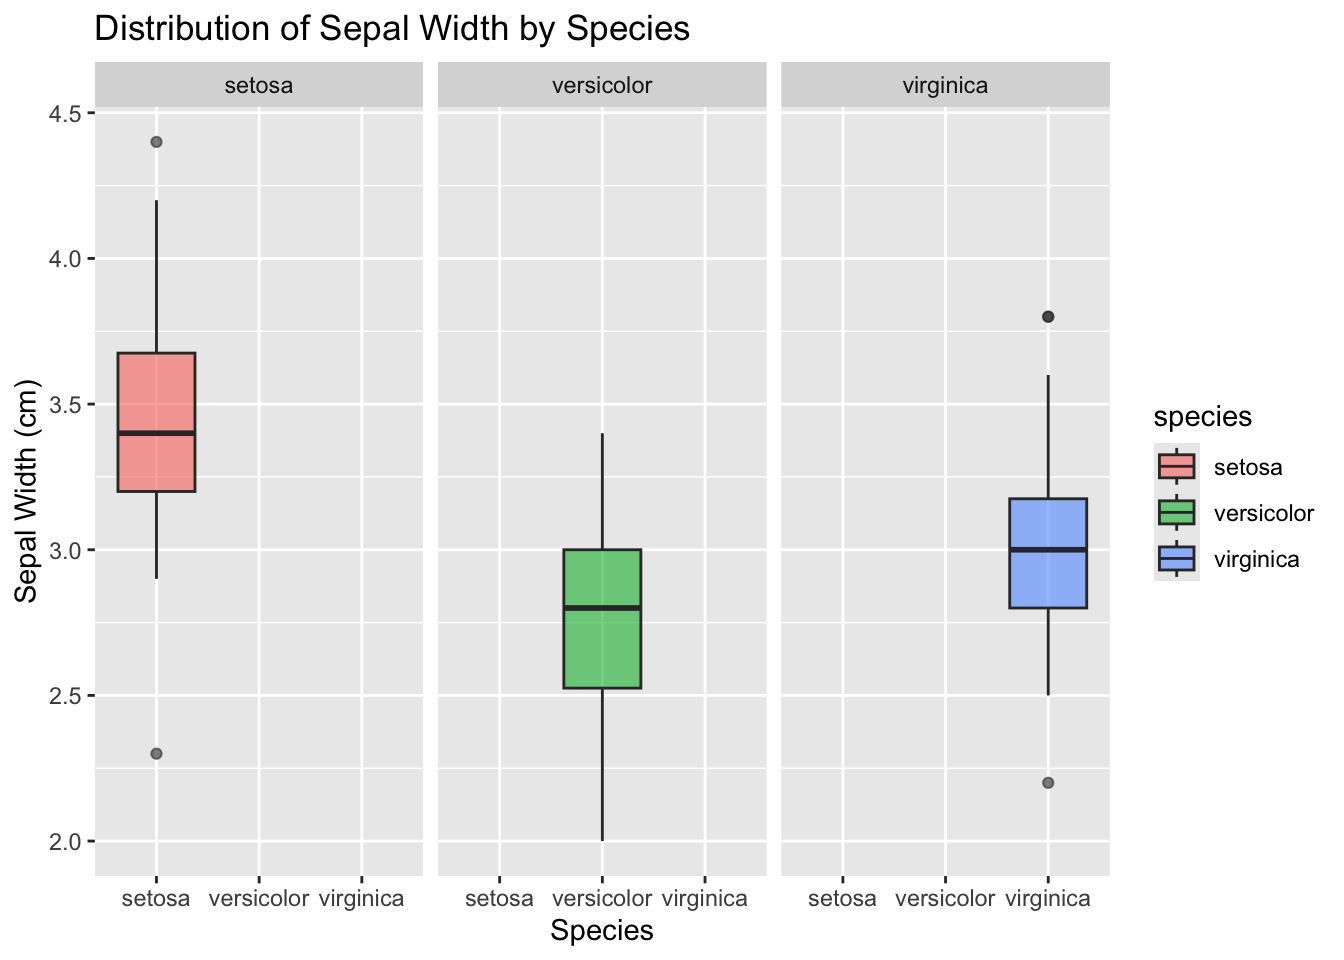
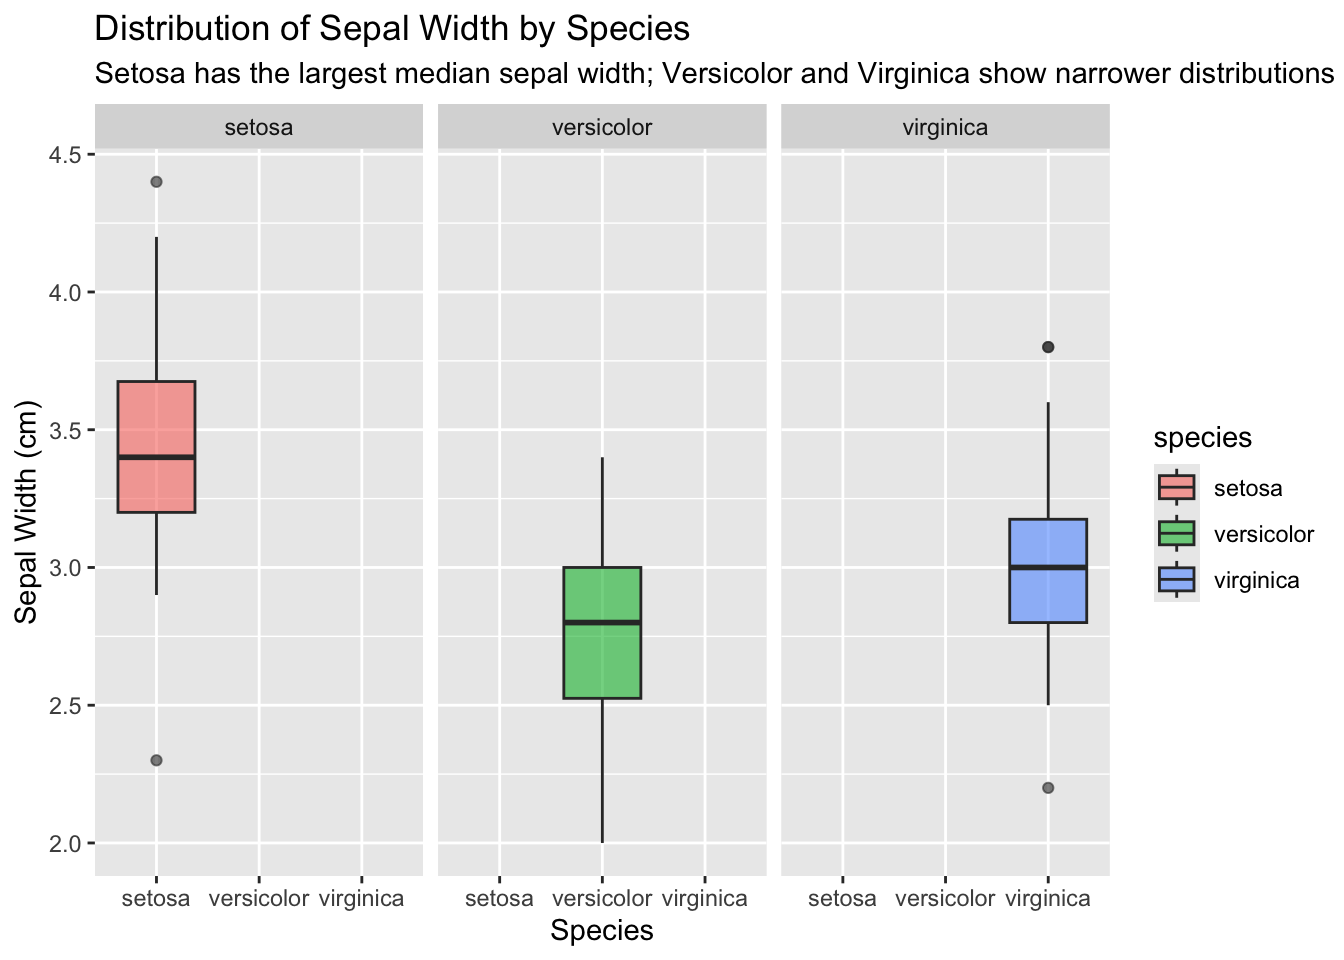
Built site for gh-pages

diff --git a/example_analysis.html b/example_analysis.html
@@ -178,6 +178,7 @@ div.csl-indent {
   <ul>
   <li><a href="#data-dictionary-for-iris" id="toc-data-dictionary-for-iris" class="nav-link active" data-scroll-target="#data-dictionary-for-iris">Data dictionary for <code>iris</code></a></li>
   <li><a href="#load-and-wrangle-data" id="toc-load-and-wrangle-data" class="nav-link" data-scroll-target="#load-and-wrangle-data">Load and wrangle data</a></li>
+  <li><a href="#three-plots" id="toc-three-plots" class="nav-link" data-scroll-target="#three-plots">Three Plots</a></li>
   </ul>
 </nav>
     </div>
@@ -209,7 +210,6 @@ div.csl-indent {
 </header>
 
 
-<p>View &lt;- function(…) { invisible(NULL) }</p>
 <div class="callout callout-style-default callout-note callout-titled">
 <div class="callout-header d-flex align-content-center">
 <div class="callout-icon-container">
@@ -292,7 +292,7 @@ The <code>iris</code> dataset is already built in base R. It contains measuremen
 <span id="cb1-3"><a href="#cb1-3" aria-hidden="true" tabindex="-1"></a><span class="fu">library</span>(ggplot2)</span>
 <span id="cb1-4"><a href="#cb1-4" aria-hidden="true" tabindex="-1"></a></span>
 <span id="cb1-5"><a href="#cb1-5" aria-hidden="true" tabindex="-1"></a><span class="co"># Clean + wrangle iris data</span></span>
-<span id="cb1-6"><a href="#cb1-6" aria-hidden="true" tabindex="-1"></a><span class="co"># Full row-level data (clean names + your derived variable)</span></span>
+<span id="cb1-6"><a href="#cb1-6" aria-hidden="true" tabindex="-1"></a><span class="co"># Clean data</span></span>
 <span id="cb1-7"><a href="#cb1-7" aria-hidden="true" tabindex="-1"></a>iris_full <span class="ot">&lt;-</span> iris <span class="sc">|&gt;</span></span>
 <span id="cb1-8"><a href="#cb1-8" aria-hidden="true" tabindex="-1"></a>  <span class="fu">rename_with</span>(tolower) <span class="sc">|&gt;</span></span>
 <span id="cb1-9"><a href="#cb1-9" aria-hidden="true" tabindex="-1"></a>  <span class="fu">rename_with</span>(<span class="sc">~</span> <span class="fu">gsub</span>(<span class="st">"</span><span class="sc">\\</span><span class="st">."</span>, <span class="st">"_"</span>, .x)) <span class="sc">|&gt;</span></span>
@@ -303,7 +303,7 @@ The <code>iris</code> dataset is already built in base R. It contains measuremen
 <span id="cb1-14"><a href="#cb1-14" aria-hidden="true" tabindex="-1"></a>  <span class="fu">filter</span>(sepal_length <span class="sc">&gt;</span> <span class="dv">4</span>)</span>
 <span id="cb1-15"><a href="#cb1-15" aria-hidden="true" tabindex="-1"></a></span>
 <span id="cb1-16"><a href="#cb1-16" aria-hidden="true" tabindex="-1"></a></span>
-<span id="cb1-17"><a href="#cb1-17" aria-hidden="true" tabindex="-1"></a><span class="co"># A separate summary table (3 rows, per-species stats)</span></span>
+<span id="cb1-17"><a href="#cb1-17" aria-hidden="true" tabindex="-1"></a><span class="co"># A separate summary table</span></span>
 <span id="cb1-18"><a href="#cb1-18" aria-hidden="true" tabindex="-1"></a>iris_summary <span class="ot">&lt;-</span> iris_full <span class="sc">|&gt;</span></span>
 <span id="cb1-19"><a href="#cb1-19" aria-hidden="true" tabindex="-1"></a>  <span class="fu">group_by</span>(species) <span class="sc">|&gt;</span></span>
 <span id="cb1-20"><a href="#cb1-20" aria-hidden="true" tabindex="-1"></a>  <span class="fu">summarise</span>(</span>
@@ -312,22 +312,36 @@ The <code>iris</code> dataset is already built in base R. It contains measuremen
 <span id="cb1-23"><a href="#cb1-23" aria-hidden="true" tabindex="-1"></a>    <span class="at">mean_ratio         =</span> <span class="fu">mean</span>(ratio),</span>
 <span id="cb1-24"><a href="#cb1-24" aria-hidden="true" tabindex="-1"></a>    <span class="at">n                  =</span> dplyr<span class="sc">::</span><span class="fu">n</span>(),</span>
 <span id="cb1-25"><a href="#cb1-25" aria-hidden="true" tabindex="-1"></a>    <span class="at">.groups =</span> <span class="st">"drop"</span></span>
-<span id="cb1-26"><a href="#cb1-26" aria-hidden="true" tabindex="-1"></a>  )</span></code></pre></div><button title="Copy to Clipboard" class="code-copy-button"><i class="bi"></i></button></div>
+<span id="cb1-26"><a href="#cb1-26" aria-hidden="true" tabindex="-1"></a>  )</span>
+<span id="cb1-27"><a href="#cb1-27" aria-hidden="true" tabindex="-1"></a></span>
+<span id="cb1-28"><a href="#cb1-28" aria-hidden="true" tabindex="-1"></a><span class="co"># View cleaned summary</span></span>
+<span id="cb1-29"><a href="#cb1-29" aria-hidden="true" tabindex="-1"></a><span class="fu">head</span>(iris_summary)</span></code></pre></div><button title="Copy to Clipboard" class="code-copy-button"><i class="bi"></i></button></div>
+<div class="cell-output cell-output-stdout">
+<pre><code># A tibble: 3 × 5
+  species    mean_sepal_length mean_petal_length mean_ratio     n
+  &lt;fct&gt;                  &lt;dbl&gt;             &lt;dbl&gt;      &lt;dbl&gt; &lt;int&gt;
+1 setosa                  5.01              1.46      0.293    50
+2 versicolor              5.94              4.26      0.718    50
+3 virginica               6.59              5.55      0.844    50</code></pre>
 </div>
+</div>
+</section>
+<section id="three-plots" class="level2">
+<h2 class="anchored" data-anchor-id="three-plots">Three Plots</h2>
 <div class="cell">
-<div class="code-copy-outer-scaffold"><div class="sourceCode cell-code" id="cb2"><pre class="sourceCode r code-with-copy"><code class="sourceCode r"><span id="cb2-1"><a href="#cb2-1" aria-hidden="true" tabindex="-1"></a><span class="do">## Three plots</span></span>
-<span id="cb2-2"><a href="#cb2-2" aria-hidden="true" tabindex="-1"></a></span>
-<span id="cb2-3"><a href="#cb2-3" aria-hidden="true" tabindex="-1"></a><span class="co"># Plot 1</span></span>
-<span id="cb2-4"><a href="#cb2-4" aria-hidden="true" tabindex="-1"></a><span class="fu">ggplot</span>(iris_full, <span class="fu">aes</span>(sepal_length, petal_length, <span class="at">color =</span> species)) <span class="sc">+</span></span>
-<span id="cb2-5"><a href="#cb2-5" aria-hidden="true" tabindex="-1"></a><span class="fu">geom_point</span>(<span class="at">size =</span> <span class="dv">2</span>) <span class="sc">+</span></span>
-<span id="cb2-6"><a href="#cb2-6" aria-hidden="true" tabindex="-1"></a><span class="fu">geom_smooth</span>(<span class="at">method =</span> <span class="st">"lm"</span>, <span class="at">se =</span> <span class="cn">FALSE</span>) <span class="sc">+</span></span>
-<span id="cb2-7"><a href="#cb2-7" aria-hidden="true" tabindex="-1"></a><span class="fu">labs</span>(</span>
-<span id="cb2-8"><a href="#cb2-8" aria-hidden="true" tabindex="-1"></a><span class="at">title =</span> <span class="st">"Petal vs Sepal Length by Species"</span>,</span>
-<span id="cb2-9"><a href="#cb2-9" aria-hidden="true" tabindex="-1"></a><span class="at">subtitle =</span> <span class="st">"Linear trends show morphological differences"</span>,</span>
-<span id="cb2-10"><a href="#cb2-10" aria-hidden="true" tabindex="-1"></a><span class="at">x =</span> <span class="st">"Sepal Length (cm)"</span>,</span>
-<span id="cb2-11"><a href="#cb2-11" aria-hidden="true" tabindex="-1"></a><span class="at">y =</span> <span class="st">"Petal Length (cm)"</span>,</span>
-<span id="cb2-12"><a href="#cb2-12" aria-hidden="true" tabindex="-1"></a><span class="at">color =</span> <span class="st">"Species"</span></span>
-<span id="cb2-13"><a href="#cb2-13" aria-hidden="true" tabindex="-1"></a>)</span></code></pre></div><button title="Copy to Clipboard" class="code-copy-button"><i class="bi"></i></button></div>
+<div class="code-copy-outer-scaffold"><div class="sourceCode cell-code" id="cb3"><pre class="sourceCode r code-with-copy"><code class="sourceCode r"><span id="cb3-1"><a href="#cb3-1" aria-hidden="true" tabindex="-1"></a><span class="do">## Three plots</span></span>
+<span id="cb3-2"><a href="#cb3-2" aria-hidden="true" tabindex="-1"></a></span>
+<span id="cb3-3"><a href="#cb3-3" aria-hidden="true" tabindex="-1"></a><span class="co"># Plot 1</span></span>
+<span id="cb3-4"><a href="#cb3-4" aria-hidden="true" tabindex="-1"></a><span class="fu">ggplot</span>(iris_full, <span class="fu">aes</span>(sepal_length, petal_length, <span class="at">color =</span> species)) <span class="sc">+</span></span>
+<span id="cb3-5"><a href="#cb3-5" aria-hidden="true" tabindex="-1"></a><span class="fu">geom_point</span>(<span class="at">size =</span> <span class="dv">2</span>) <span class="sc">+</span></span>
+<span id="cb3-6"><a href="#cb3-6" aria-hidden="true" tabindex="-1"></a><span class="fu">geom_smooth</span>(<span class="at">method =</span> <span class="st">"lm"</span>, <span class="at">se =</span> <span class="cn">FALSE</span>) <span class="sc">+</span></span>
+<span id="cb3-7"><a href="#cb3-7" aria-hidden="true" tabindex="-1"></a><span class="fu">labs</span>(</span>
+<span id="cb3-8"><a href="#cb3-8" aria-hidden="true" tabindex="-1"></a><span class="at">title =</span> <span class="st">"Petal vs Sepal Length by Species"</span>,</span>
+<span id="cb3-9"><a href="#cb3-9" aria-hidden="true" tabindex="-1"></a><span class="at">subtitle =</span> <span class="st">"Linear trends show differences among species"</span>,</span>
+<span id="cb3-10"><a href="#cb3-10" aria-hidden="true" tabindex="-1"></a><span class="at">x =</span> <span class="st">"Sepal Length (cm)"</span>,</span>
+<span id="cb3-11"><a href="#cb3-11" aria-hidden="true" tabindex="-1"></a><span class="at">y =</span> <span class="st">"Petal Length (cm)"</span>,</span>
+<span id="cb3-12"><a href="#cb3-12" aria-hidden="true" tabindex="-1"></a><span class="at">color =</span> <span class="st">"Species"</span></span>
+<span id="cb3-13"><a href="#cb3-13" aria-hidden="true" tabindex="-1"></a>)</span></code></pre></div><button title="Copy to Clipboard" class="code-copy-button"><i class="bi"></i></button></div>
 <div class="cell-output-display">
 <div>
 <figure class="figure">
@@ -335,14 +349,15 @@ The <code>iris</code> dataset is already built in base R. It contains measuremen
 </figure>
 </div>
 </div>
-<div class="code-copy-outer-scaffold"><div class="sourceCode cell-code" id="cb3"><pre class="sourceCode r code-with-copy"><code class="sourceCode r"><span id="cb3-1"><a href="#cb3-1" aria-hidden="true" tabindex="-1"></a><span class="co"># Plot 2</span></span>
-<span id="cb3-2"><a href="#cb3-2" aria-hidden="true" tabindex="-1"></a><span class="fu">ggplot</span>(iris_full, <span class="fu">aes</span>(species, sepal_width, <span class="at">fill =</span> species)) <span class="sc">+</span></span>
-<span id="cb3-3"><a href="#cb3-3" aria-hidden="true" tabindex="-1"></a><span class="fu">geom_boxplot</span>(<span class="at">alpha =</span> <span class="fl">0.6</span>) <span class="sc">+</span></span>
-<span id="cb3-4"><a href="#cb3-4" aria-hidden="true" tabindex="-1"></a><span class="fu">facet_wrap</span>(<span class="sc">~</span> species) <span class="sc">+</span></span>
-<span id="cb3-5"><a href="#cb3-5" aria-hidden="true" tabindex="-1"></a><span class="fu">labs</span>(</span>
-<span id="cb3-6"><a href="#cb3-6" aria-hidden="true" tabindex="-1"></a><span class="at">title =</span> <span class="st">"Distribution of Sepal Width by Species"</span>,</span>
-<span id="cb3-7"><a href="#cb3-7" aria-hidden="true" tabindex="-1"></a><span class="at">x =</span> <span class="st">"Species"</span>, <span class="at">y =</span> <span class="st">"Sepal Width (cm)"</span></span>
-<span id="cb3-8"><a href="#cb3-8" aria-hidden="true" tabindex="-1"></a>)</span></code></pre></div><button title="Copy to Clipboard" class="code-copy-button"><i class="bi"></i></button></div>
+<div class="code-copy-outer-scaffold"><div class="sourceCode cell-code" id="cb4"><pre class="sourceCode r code-with-copy"><code class="sourceCode r"><span id="cb4-1"><a href="#cb4-1" aria-hidden="true" tabindex="-1"></a><span class="co"># Plot 2</span></span>
+<span id="cb4-2"><a href="#cb4-2" aria-hidden="true" tabindex="-1"></a><span class="fu">ggplot</span>(iris_full, <span class="fu">aes</span>(species, sepal_width, <span class="at">fill =</span> species)) <span class="sc">+</span></span>
+<span id="cb4-3"><a href="#cb4-3" aria-hidden="true" tabindex="-1"></a><span class="fu">geom_boxplot</span>(<span class="at">alpha =</span> <span class="fl">0.6</span>) <span class="sc">+</span></span>
+<span id="cb4-4"><a href="#cb4-4" aria-hidden="true" tabindex="-1"></a><span class="fu">facet_wrap</span>(<span class="sc">~</span> species) <span class="sc">+</span></span>
+<span id="cb4-5"><a href="#cb4-5" aria-hidden="true" tabindex="-1"></a><span class="fu">labs</span>(</span>
+<span id="cb4-6"><a href="#cb4-6" aria-hidden="true" tabindex="-1"></a><span class="at">title =</span> <span class="st">"Distribution of Sepal Width by Species"</span>,</span>
+<span id="cb4-7"><a href="#cb4-7" aria-hidden="true" tabindex="-1"></a><span class="at">subtitle =</span> <span class="st">"Setosa has the largest median sepal width; Versicolor and Virginica show narrower distributions"</span>,</span>
+<span id="cb4-8"><a href="#cb4-8" aria-hidden="true" tabindex="-1"></a><span class="at">x =</span> <span class="st">"Species"</span>, <span class="at">y =</span> <span class="st">"Sepal Width (cm)"</span></span>
+<span id="cb4-9"><a href="#cb4-9" aria-hidden="true" tabindex="-1"></a>)</span></code></pre></div><button title="Copy to Clipboard" class="code-copy-button"><i class="bi"></i></button></div>
 <div class="cell-output-display">
 <div>
 <figure class="figure">
@@ -350,13 +365,14 @@ The <code>iris</code> dataset is already built in base R. It contains measuremen
 </figure>
 </div>
 </div>
-<div class="code-copy-outer-scaffold"><div class="sourceCode cell-code" id="cb4"><pre class="sourceCode r code-with-copy"><code class="sourceCode r"><span id="cb4-1"><a href="#cb4-1" aria-hidden="true" tabindex="-1"></a><span class="co">#Plot 3</span></span>
-<span id="cb4-2"><a href="#cb4-2" aria-hidden="true" tabindex="-1"></a><span class="fu">ggplot</span>(iris_full, <span class="fu">aes</span>(petal_width, <span class="at">fill =</span> species)) <span class="sc">+</span></span>
-<span id="cb4-3"><a href="#cb4-3" aria-hidden="true" tabindex="-1"></a><span class="fu">geom_density</span>(<span class="at">alpha =</span> <span class="fl">0.4</span>) <span class="sc">+</span></span>
-<span id="cb4-4"><a href="#cb4-4" aria-hidden="true" tabindex="-1"></a><span class="fu">labs</span>(</span>
-<span id="cb4-5"><a href="#cb4-5" aria-hidden="true" tabindex="-1"></a><span class="at">title =</span> <span class="st">"Distribution of Petal Width across Species"</span>,</span>
-<span id="cb4-6"><a href="#cb4-6" aria-hidden="true" tabindex="-1"></a><span class="at">x =</span> <span class="st">"Petal Width (cm)"</span>, <span class="at">y =</span> <span class="st">"Density"</span></span>
-<span id="cb4-7"><a href="#cb4-7" aria-hidden="true" tabindex="-1"></a>)</span></code></pre></div><button title="Copy to Clipboard" class="code-copy-button"><i class="bi"></i></button></div>
+<div class="code-copy-outer-scaffold"><div class="sourceCode cell-code" id="cb5"><pre class="sourceCode r code-with-copy"><code class="sourceCode r"><span id="cb5-1"><a href="#cb5-1" aria-hidden="true" tabindex="-1"></a><span class="co">#Plot 3</span></span>
+<span id="cb5-2"><a href="#cb5-2" aria-hidden="true" tabindex="-1"></a><span class="fu">ggplot</span>(iris_full, <span class="fu">aes</span>(petal_width, <span class="at">fill =</span> species)) <span class="sc">+</span></span>
+<span id="cb5-3"><a href="#cb5-3" aria-hidden="true" tabindex="-1"></a><span class="fu">geom_density</span>(<span class="at">alpha =</span> <span class="fl">0.4</span>) <span class="sc">+</span></span>
+<span id="cb5-4"><a href="#cb5-4" aria-hidden="true" tabindex="-1"></a><span class="fu">labs</span>(</span>
+<span id="cb5-5"><a href="#cb5-5" aria-hidden="true" tabindex="-1"></a><span class="at">title =</span> <span class="st">"Distribution of Petal Width across Species"</span>,</span>
+<span id="cb5-6"><a href="#cb5-6" aria-hidden="true" tabindex="-1"></a><span class="at">subtitle =</span> <span class="st">"Setosa petals are much thinner than the other two species; Virginica shows the widest spread"</span>,</span>
+<span id="cb5-7"><a href="#cb5-7" aria-hidden="true" tabindex="-1"></a><span class="at">x =</span> <span class="st">"Petal Width (cm)"</span>, <span class="at">y =</span> <span class="st">"Density"</span></span>
+<span id="cb5-8"><a href="#cb5-8" aria-hidden="true" tabindex="-1"></a>)</span></code></pre></div><button title="Copy to Clipboard" class="code-copy-button"><i class="bi"></i></button></div>
 <div class="cell-output-display">
 <div>
 <figure class="figure">
@@ -462,7 +478,7 @@ Wickham, Hadley, Romain François, Lionel Henry, and Kirill Müller. 2023. <em>D
     }
       var localhostRegex = new RegExp(/^(?:http|https):\/\/localhost\:?[0-9]*\//);
       var mailtoRegex = new RegExp(/^mailto:/);
-        var filterRegex = new RegExp('/' + window.location.host + '/');
+        var filterRegex = new RegExp("https:\/\/ThisisMomoW\.github\.io\/biostat777-intro--Mo---Wang-\/");
       var isInternal = (href) => {
           return filterRegex.test(href) || localhostRegex.test(href) || mailtoRegex.test(href);
       }

diff --git a/about.html b/about.html
@@ -148,7 +148,7 @@ Favorites: <strong>Sergei Rachmaninoff</strong> (composer), <strong>Daniil Trifo
 <h4 class="anchored" data-anchor-id="fun-facts">Fun facts</h4>
 <ul>
 <li>Best day trip near London: <strong>Winchester</strong>.</li>
-<li>Comfort bake: <strong>Matcha cookie</strong>.</li>
+<li>Comfort bake: <strong>Matcha cheesecake</strong>.</li>
 </ul>
 
 
@@ -228,7 +228,7 @@ Favorites: <strong>Sergei Rachmaninoff</strong> (composer), <strong>Daniil Trifo
     }
       var localhostRegex = new RegExp(/^(?:http|https):\/\/localhost\:?[0-9]*\//);
       var mailtoRegex = new RegExp(/^mailto:/);
-        var filterRegex = new RegExp('/' + window.location.host + '/');
+        var filterRegex = new RegExp("https:\/\/ThisisMomoW\.github\.io\/biostat777-intro--Mo---Wang-\/");
       var isInternal = (href) => {
           return filterRegex.test(href) || localhostRegex.test(href) || mailtoRegex.test(href);
       }

diff --git a/index.html b/index.html
@@ -223,7 +223,7 @@ ul.task-list li input[type="checkbox"] {
     }
       var localhostRegex = new RegExp(/^(?:http|https):\/\/localhost\:?[0-9]*\//);
       var mailtoRegex = new RegExp(/^mailto:/);
-        var filterRegex = new RegExp('/' + window.location.host + '/');
+        var filterRegex = new RegExp("https:\/\/ThisisMomoW\.github\.io\/biostat777-intro--Mo---Wang-\/");
       var isInternal = (href) => {
           return filterRegex.test(href) || localhostRegex.test(href) || mailtoRegex.test(href);
       }
